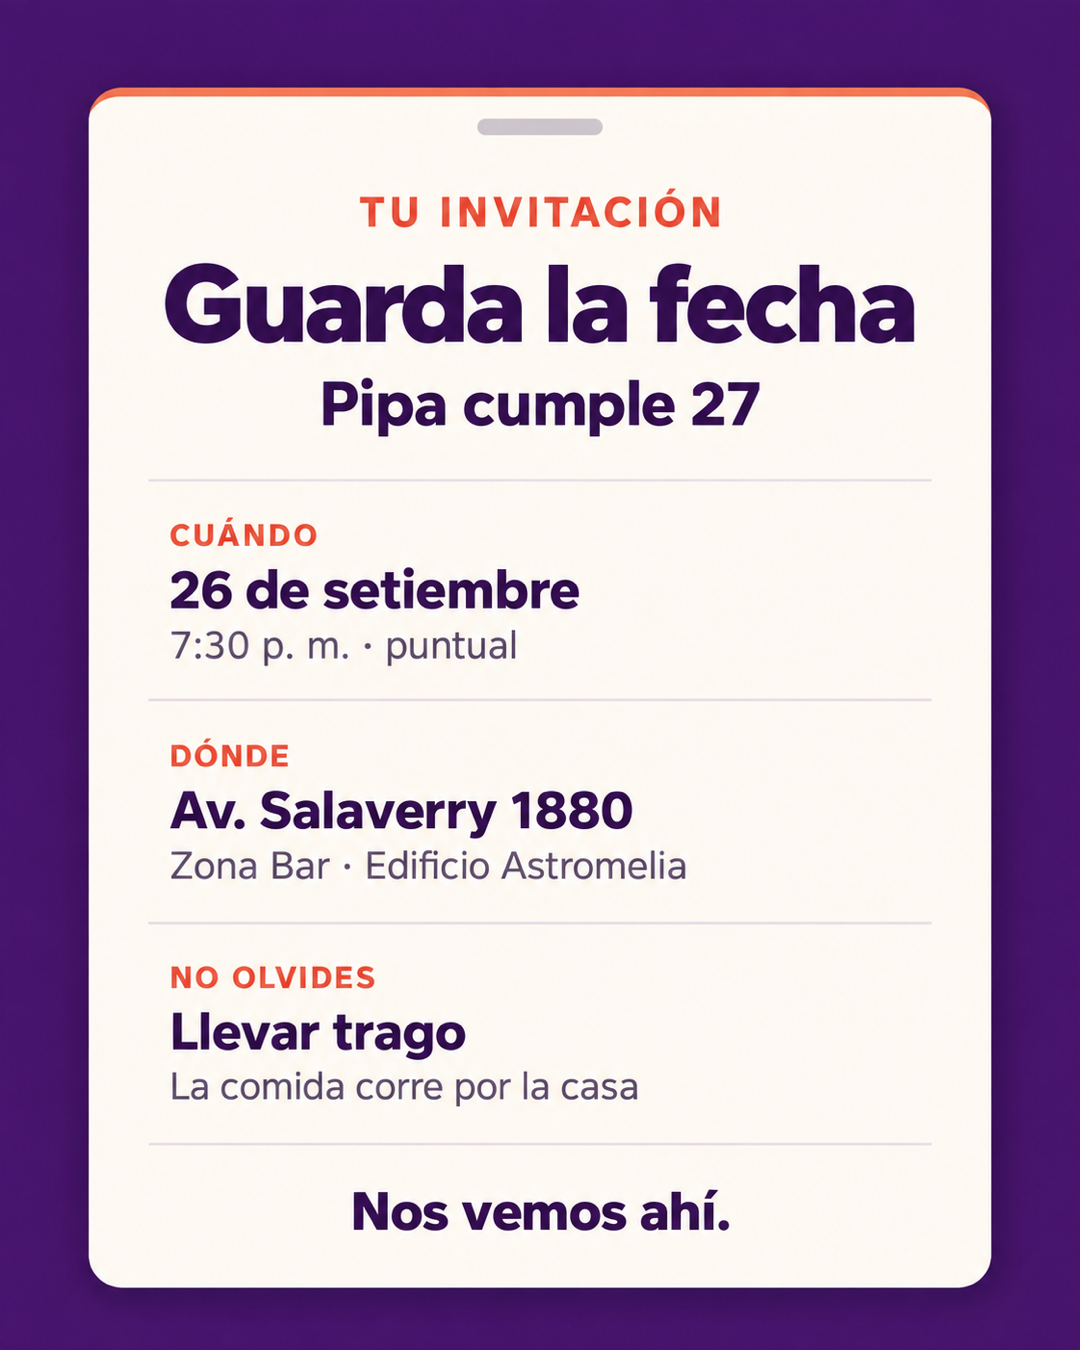
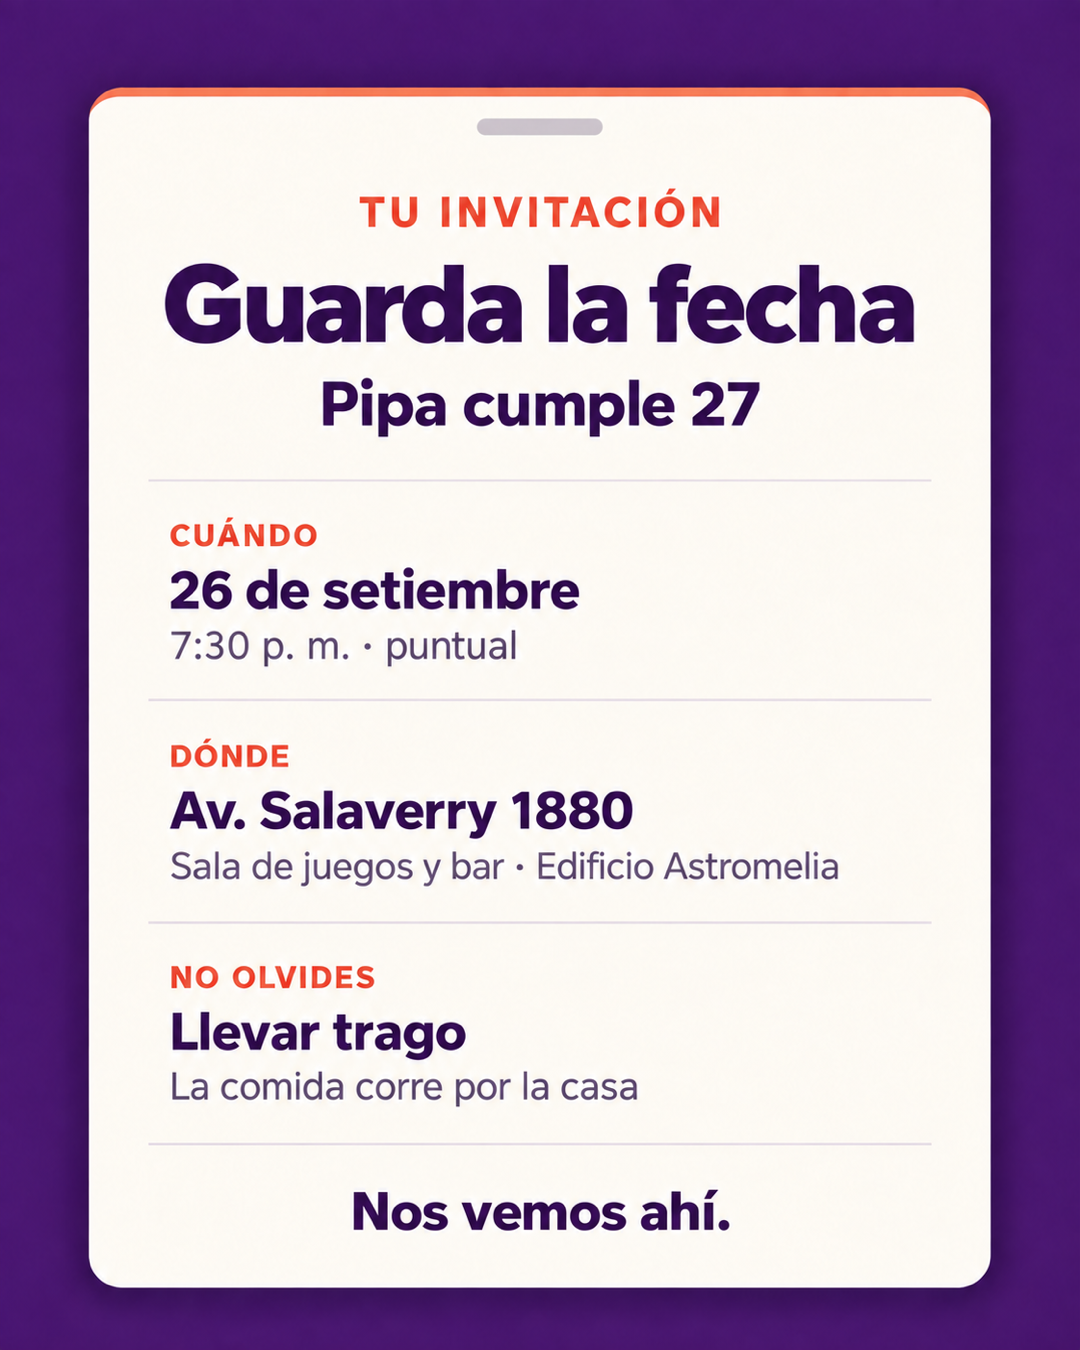
fix: refine final spacing and venue label

Changed region(s): [[0.1528, 0.5911, 0.7944, 0.6533], [0.3972, 0.4667, 0.4583, 0.4978]]

diff --git a/public/index.html b/public/index.html
@@ -5,7 +5,7 @@
   <meta name="viewport" content="width=device-width, initial-scale=1.0, viewport-fit=cover">
   <meta name="theme-color" content="#3d1768">
   <title>El reto de Pipa</title>
-  <link rel="stylesheet" href="./styles.css?v=20260920-2">
+  <link rel="stylesheet" href="./styles.css?v=20260920-3">
 </head>
 <body class="en-inicio">
   <a class="skip-link" href="#contenido-principal">Saltar al contenido</a>
@@ -65,7 +65,7 @@
         <div class="invitacion-encabezado"><span class="paso">TU INVITACIÓN</span><h3>Guarda la fecha</h3><p>Pipa cumple 27</p></div>
         <div class="detalle-grid">
           <div class="detalle-item"><div><small>CUÁNDO</small><strong>26 de setiembre</strong><p>7:30 p. m. · puntual</p></div></div>
-          <div class="detalle-item"><div><small>DÓNDE</small><strong>Av. Salaverry 1880</strong><p>Zona Bar · Edificio Astromelia</p></div></div>
+          <div class="detalle-item"><div><small>DÓNDE</small><strong>Av. Salaverry 1880</strong><p>Sala de juegos y bar · Edificio Astromelia</p></div></div>
           <div class="detalle-item"><div><small>NO OLVIDES</small><strong>Llevar trago</strong><p>La comida corre por la casa</p></div></div>
         </div>
         <section class="ranking-previo" aria-labelledby="ranking-previo-titulo">
@@ -87,6 +87,6 @@
     <p>Más puntos primero. Si empatan, gana el menor tiempo.</p><div id="ranking-contenido" role="status"></div>
     <button class="btn-secundario" id="btn-actualizar-ranking" type="button">Actualizar ranking</button>
   </dialog>
-  <script src="./app.js?v=20260920-2" defer></script>
+  <script src="./app.js?v=20260920-3" defer></script>
 </body>
 </html>

diff --git a/test/static-contract.test.js b/test/static-contract.test.js
@@ -136,3 +136,14 @@ test('static assets and APIs use paths compatible with a proxy subdirectory', as
   assert.match(app, /fetch\(`\.\/api\//);
   assert.match(app, /src="\.\/imagenes\//);
 });
+
+test('the final invitation keeps header clearance and the complete venue name', async () => {
+  const html = await readFile(new URL('../public/index.html', import.meta.url), 'utf8');
+  const css = await readFile(new URL('../public/styles.css', import.meta.url), 'utf8');
+  const migration = await readFile(new URL('../supabase/migrations/20260920020834_update_venue_name.sql', import.meta.url), 'utf8');
+  assert.match(html, /Sala de juegos y bar · Edificio Astromelia/);
+  assert.doesNotMatch(html, /Zona Bar · Edificio Astromelia/);
+  assert.match(css, /body:not\(\.en-inicio\):not\(\.en-preguntas\) \.app-shell\{\s*margin-top:clamp\(14px,2vw,20px\)/);
+  assert.match(css, /body:not\(\.en-inicio\):not\(\.en-preguntas\) \.final-card\{\s*max-height:calc\(100svh - 106px\)/);
+  assert.match(migration, /set venue_name = 'Sala de juegos y bar · Edificio Astromelia'/);
+});

diff --git a/public/styles.css b/public/styles.css
@@ -488,6 +488,15 @@ body{font-family:"Avenir Next",Avenir,"Helvetica Neue",Arial,sans-serif}
   perspective:1200px;
   transition:background-color .72s ease,border-color .72s ease,padding-top .72s cubic-bezier(.2,.74,.18,1);
 }
+body:not(.en-inicio):not(.en-preguntas) .app-shell{
+  margin-top:clamp(14px,2vw,20px);
+}
+body:not(.en-inicio):not(.en-preguntas) .final-card{
+  max-height:calc(100svh - 106px);
+}
+@media(max-width:560px){
+  body:not(.en-inicio):not(.en-preguntas) .final-card{max-height:calc(100svh - 88px)}
+}
 .resultado-cabecera{max-height:230px;text-align:center}
 #puntaje-final{
   margin:2px 0;
